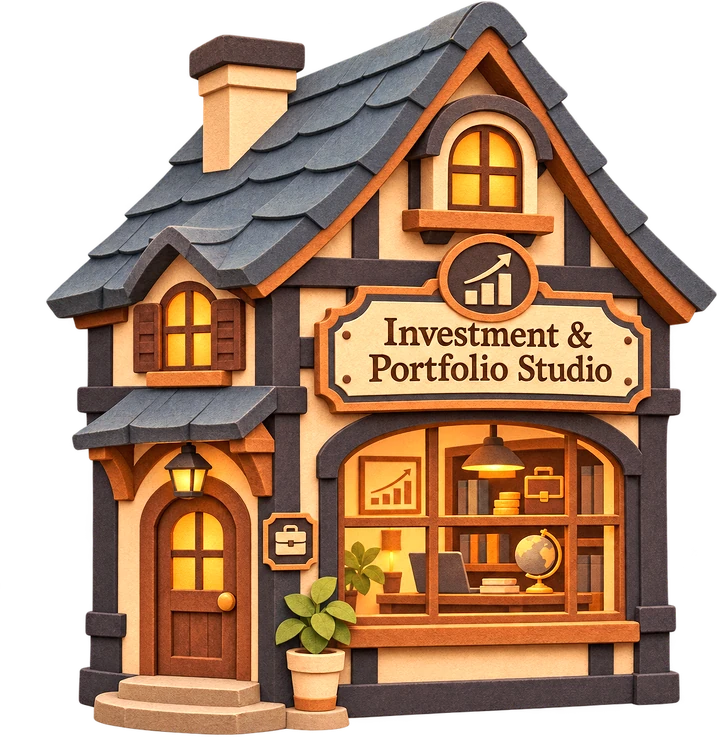
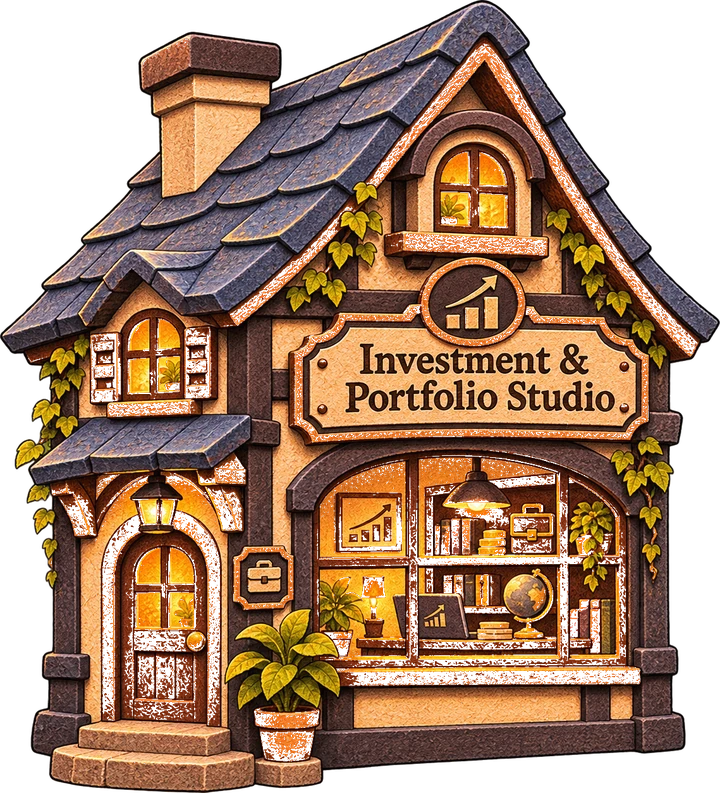
Mike's new Investment & Portfolio Studio house in the village's style (#328)
Claude-Session: https://claude.ai/code/session_01Y5Vq5MY5R98tUMSQqTrVD3

diff --git a/index.html b/index.html
@@ -47,4 +47,4 @@ html:not([data-paperworld-maintenance="yes"]) .building-placement-panel,
 html:not([data-paperworld-maintenance="yes"]) .crow-technical-tools,
 html:not([data-paperworld-maintenance="yes"]) .village-maintenance-only {display:none!important}
 </style><script>if(new URLSearchParams(location.search).get('maintenance')==='1')document.documentElement.dataset.paperworldMaintenance='yes'</script></head><body><header><strong>PAPERWORLD</strong><span>YOUR LIVING AI VILLAGE</span></header><div class="layout"><main id="view"><canvas id="map" aria-label="Paperworld enlarged village preview; drag to move camera and tap a building to inspect"></canvas><div class="controls"><button id="path-editor-toggle" type="button" aria-pressed="false" title="Σχεδίαση διαδρομών">Paths</button><button id="building-placement-toggle" type="button" aria-pressed="false" title="Μετακίνηση κτιρίων">Τοποθέτηση κτιρίων</button><button id="world-talk-matt" type="button" aria-label="Talk to Matt" title="Talk to Matt">M</button><button id="world-work-panel" type="button" aria-label="Οι εργασίες μου" title="Οι εργασίες μου">✓</button><button id="depth-demo" class="depth-demo" type="button" aria-label="Cycle isometric depth test">Depth test: Off</button><button id="plus" aria-label="Zoom in">+</button><button id="minus" aria-label="Zoom out">−</button><button id="home" aria-label="Fit world">⌂</button></div><section id="path-editor-panel" class="building-placement-panel path-editor-panel" hidden aria-label="Σχεδιασμός διαδρομών"><strong>Σχεδίαση διαδρομών</strong><p id="path-editor-status">Επεξεργασία διαδρομών</p><label for="path-editor-mode">Εργαλείο</label><select id="path-editor-mode"><option value="draw">Σχεδίαση / σύνδεση</option><option value="move">Μετακίνηση κόμβου</option><option value="erase">Διαγραφή σύνδεσης</option><option value="hidden">Κρυφή διαδρομή</option></select><label class="path-editor-check"><input id="path-editor-show-hidden" type="checkbox" checked> Εμφάνιση κρυφών διαδρομών</label><div class="building-placement-actions"><button id="path-editor-undo" type="button">Αναίρεση</button><button id="path-editor-reset" type="button">Επαναφορά paths</button><button id="path-editor-copy" type="button">Αντιγραφή paths</button><button id="path-editor-finish" type="button">Τέλος</button></div><textarea id="path-editor-export" rows="6" readonly hidden aria-label="Path survey JSON"></textarea><small>Δοκιμαστικό σχέδιο μόνο σε αυτόν τον browser. Οι χαρακτήρες συνεχίζουν να χρησιμοποιούν τα εγκεκριμένα paths μέχρι να τα επιβεβαιώσουμε.</small></section><section id="building-placement-panel" class="building-placement-panel" hidden aria-label="Επεξεργασία θέσεων κτιρίων"><strong>Τοποθέτηση κτιρίων</strong><p id="building-placement-status">Άγγιξε ένα κτίριο για να το επιλέξεις.</p><div class="building-placement-actions"><button id="building-nudge-left" type="button" aria-label="Αριστερά">←</button><button id="building-nudge-right" type="button" aria-label="Δεξιά">→</button><button id="building-nudge-up" type="button" aria-label="Πάνω">↑</button><button id="building-nudge-down" type="button" aria-label="Κάτω">↓</button><button id="building-placement-reset" type="button">Επαναφορά κτιρίου</button><button id="building-placement-reset-all" type="button">Επαναφορά όλων</button><button id="building-placement-copy" type="button">Αντιγραφή θέσεων</button><button id="building-placement-finish" type="button">Τέλος</button></div><textarea id="building-placement-export" rows="6" readonly hidden aria-label="Building placement JSON"></textarea><small>Οι αλλαγές αποθηκεύονται μόνο σε αυτόν τον browser. Η κανονική λειτουργία του χωριού δεν αλλάζει μέχρι το τελικό PR.</small></section><div class="hint">Άγγιξε το χωριό για να περπατήσεις · M: Matt · T: κοντινός συνεργάτης</div></main><aside id="world-drawer" hidden><div class="world-drawer-head"><small>ΟΙ ΕΡΓΑΣΙΕΣ ΜΟΥ</small><button id="close-world-drawer" type="button" aria-label="Close work desk">×</button></div><h1 id="name">Το χωριό σου</h1><p id="desc">Επίλεξε ένα κτίριο ή μίλησε στον Matt.</p><div class="workspace-actions"><button id="walkway-overlay" type="button" class="open-projects" aria-label="Toggle walkable path overlay" aria-pressed="false" title="Show collision-checked walkable paths">Paths: Off</button><button id="call-visual-meeting" type="button" class="open-projects" title="Οπτική συνάντηση και πραγματική ενημέρωση εργασιών · χωρίς AI κλήση">Town Hall · συντονισμός</button><button id="open-projects" class="open-projects" type="button">Οι εργασίες μου</button><button id="open-chief" class="open-projects chief-launch" type="button">Talk to Matt</button></div><details class="dev-tools"><summary>Map calibration tools</summary><div class="marker-editor"><button id="calibrate-marker" type="button" disabled>Place marker on door</button><button id="reset-marker" type="button" disabled>Reset</button><p id="marker-status">Select a building to adjust its marker.</p><button id="export-markers" type="button">Copy all 5 door positions</button><textarea id="marker-export-output" rows="5" readonly hidden aria-label="Door calibration coordinates"></textarea></div></details><details class="dev-tools"><summary>Technical asset status</summary><section><b>Village status</b><div id="assets"></div><p>Five project rooms are available. Navigation and artwork refinement continues.</p></section></details><div id="project-room" class="project-room" hidden aria-live="polite"></div><p class="disclaimer">Οι σημαντικές αποφάσεις και οι δημοσιεύσεις παραμένουν υπό τον έλεγχό σου.</p></aside></div><script src="./js/i18n.js?v=bilingual-v1-context" defer></script><script src="./js/owner-path-survey.js?v=20261121-74" defer></script><script src="./js/navigation.js?v=owner-survey-safe-v5" defer></script><script src="./js/path-editor.js?v=1" defer></script><script src="./js/depth.js?v=sidewalk-depth-v2" defer></script><script src="./js/projects.js" defer></script><script src="./js/rooms-ui.js" defer></script><script src="./js/cloud.js?v=bilingual-v1-suno-cap-tidy-push-tools-link-stage-ideas-inventory-redo-james-shop-page-mike" defer></script><script src="./js/agent-conversation-store.js?v=43-mike" defer></script><script src="./js/chief.js?v=28" defer></script><script src="./js/agents.js?v=39-mike" defer></script><script src="./js/director-memory-review.js?v=2-r2-f1" defer></script><script src="./js/director-history-import.js?v=1" defer></script><script src="./js/director-history-import-ui.js?v=1-f1" defer></script><script src="./js/listening-review.js?v=human-first-v3" defer></script><script src="./js/autonomy-public-feed.js?v=unattended-v5" defer></script><script src="./js/human-first-hub.js?v=responsive-1-tidy-slim-f2" defer></script><script src="./js/town-hall-briefing.js?v=integrated-v4-f1" defer></script><script src="./js/village-activity.js?v=human-v3-reasons-audit-r2-redone" defer></script><script src="./js/cloud-ui.js?v=release-1-phase2-tidy-push-ideas-audit-r2-f1-redo-shop-page-mike" defer></script><script src="./js/visual-agent-workflow.js?v=1" defer></script><script src="./js/director-movement.js?v=owner-connected-v2-townhall" defer></script><script src="./js/town-hall-interior.js?v=3-scene-audit-r2-week-fast" defer></script><script src="./js/workspace-interior.js?v=3-scenes-audit-james-mike-art-james2-mike2-jr" defer></script><script src="./js/push-notify.js?v=2-app" defer></script><script src="./js/director-actions-client.js?v=2-studio-v2-voice2" defer></script><script src="./js/proof.js?v=4-redone" defer></script>
-<script src="./js/village-life.js?v=3-strolls-work" defer></script><script src="./js/camera-framing.js?v=responsive-1-board-follow" defer></script><script src="./js/resident-status.js?v=1&stall=1-audit-f1-redo-redone" defer></script><script src="./js/village-ambience.js?v=2-night" defer></script><script src="./js/village-sound.js?v=1" defer></script><script src="./js/app.js?v=responsive-1-living-v3-board-follow-night-townhall-ws-audit-f2-shop2-mike-art-fast-style2-james2-mike2" defer></script><script src="./js/matt-history.js?v=full-replies-v3-notify-all" defer></script><script src="./js/agent-profiles.js?v=3-mike-mike-art-style2-james2-mike2" defer></script><script src="./js/team-panel.js?v=responsive-1-mike" defer></script><script src="./js/crow-suno-prompt.js?v=1" defer></script><script src="./js/crow-studio-draft.js?v=7-truthful-handoff-wordless-studio-v2-voice2" defer></script><script src="./js/messenger-format.js?v=messenger-v2-1" defer></script><script src="./js/routine-intent.js?v=release-1" defer></script><script src="./js/voice-input.js?v=1" defer></script><script src="./js/world-dialogue.js?v=release-1-routine-v4-composer-fix-cards-v2-phase5-living-context-starters-chime-handoff-tools-voice-ideas-audit-mem-song2-studio-v2-suno-inventory-voice2-f1-redo-b8-mike" defer></script><script src="./js/connection-status.js?v=responsive-1" defer></script><script src="./js/workspace.js?v=bilingual-v1-tidy-sound-push-ideas-proof-audit-mem-f2-redo-james-shop-page-mike" defer></script><script src="./js/resident-feed.js?v=1-board-fast-audit-week" defer></script><script src="./js/village-board.js?v=2-mike" defer></script></body></html>
+<script src="./js/village-life.js?v=3-strolls-work" defer></script><script src="./js/camera-framing.js?v=responsive-1-board-follow" defer></script><script src="./js/resident-status.js?v=1&stall=1-audit-f1-redo-redone" defer></script><script src="./js/village-ambience.js?v=2-night" defer></script><script src="./js/village-sound.js?v=1" defer></script><script src="./js/app.js?v=responsive-1-living-v3-board-follow-night-townhall-ws-audit-f2-shop2-mike-art-fast-style2-james2-mike2-mh" defer></script><script src="./js/matt-history.js?v=full-replies-v3-notify-all" defer></script><script src="./js/agent-profiles.js?v=3-mike-mike-art-style2-james2-mike2" defer></script><script src="./js/team-panel.js?v=responsive-1-mike" defer></script><script src="./js/crow-suno-prompt.js?v=1" defer></script><script src="./js/crow-studio-draft.js?v=7-truthful-handoff-wordless-studio-v2-voice2" defer></script><script src="./js/messenger-format.js?v=messenger-v2-1" defer></script><script src="./js/routine-intent.js?v=release-1" defer></script><script src="./js/voice-input.js?v=1" defer></script><script src="./js/world-dialogue.js?v=release-1-routine-v4-composer-fix-cards-v2-phase5-living-context-starters-chime-handoff-tools-voice-ideas-audit-mem-song2-studio-v2-suno-inventory-voice2-f1-redo-b8-mike" defer></script><script src="./js/connection-status.js?v=responsive-1" defer></script><script src="./js/workspace.js?v=bilingual-v1-tidy-sound-push-ideas-proof-audit-mem-f2-redo-james-shop-page-mike" defer></script><script src="./js/resident-feed.js?v=1-board-fast-audit-week" defer></script><script src="./js/village-board.js?v=2-mike" defer></script></body></html>

diff --git a/js/app.js b/js/app.js
@@ -15,7 +15,7 @@ const defs=[
 // James's shop on the empty left plot; its door faces the path at node 48.
 {id:'shop',name:'Digital Business Studio',file:'./assets/digital-business-studio.webp',x:215,bottom:364,width:240,entrance:[222,338],approach:[364,346],desc:'James: research, digital products and sales.'},
 // Mike's studio on the round plot on the right; its door faces the path coming up from Wellbeing.
-{id:'markets',name:'Investment & Portfolio Studio',file:'./assets/investment-portfolio-studio.webp?v=style2',x:1505,bottom:345,width:220,entrance:[1454,318],approach:[1333,358],desc:'Mike: your stocks and ETFs, every day. Private, read-only.'}
+{id:'markets',name:'Investment & Portfolio Studio',file:'./assets/investment-portfolio-studio.webp?v=3',x:1505,bottom:345,width:220,entrance:[1454,318],approach:[1333,358],desc:'Mike: your stocks and ETFs, every day. Private, read-only.'}
 ];
 // Preview-only marker offsets are local to the user's browser; no GitHub writes.
 const markerKey='paperworld-preview-010-marker-calibration-v1';
